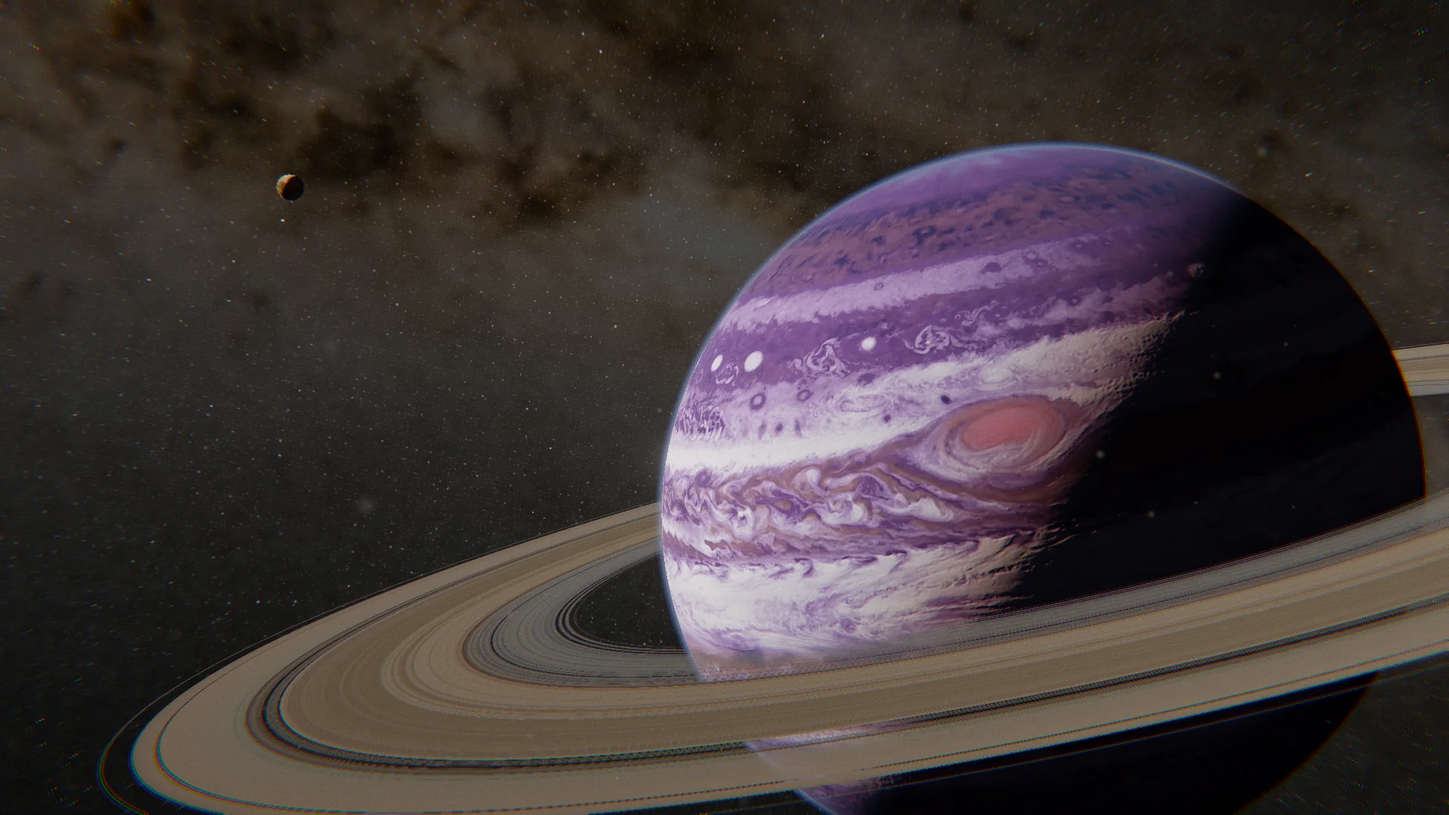
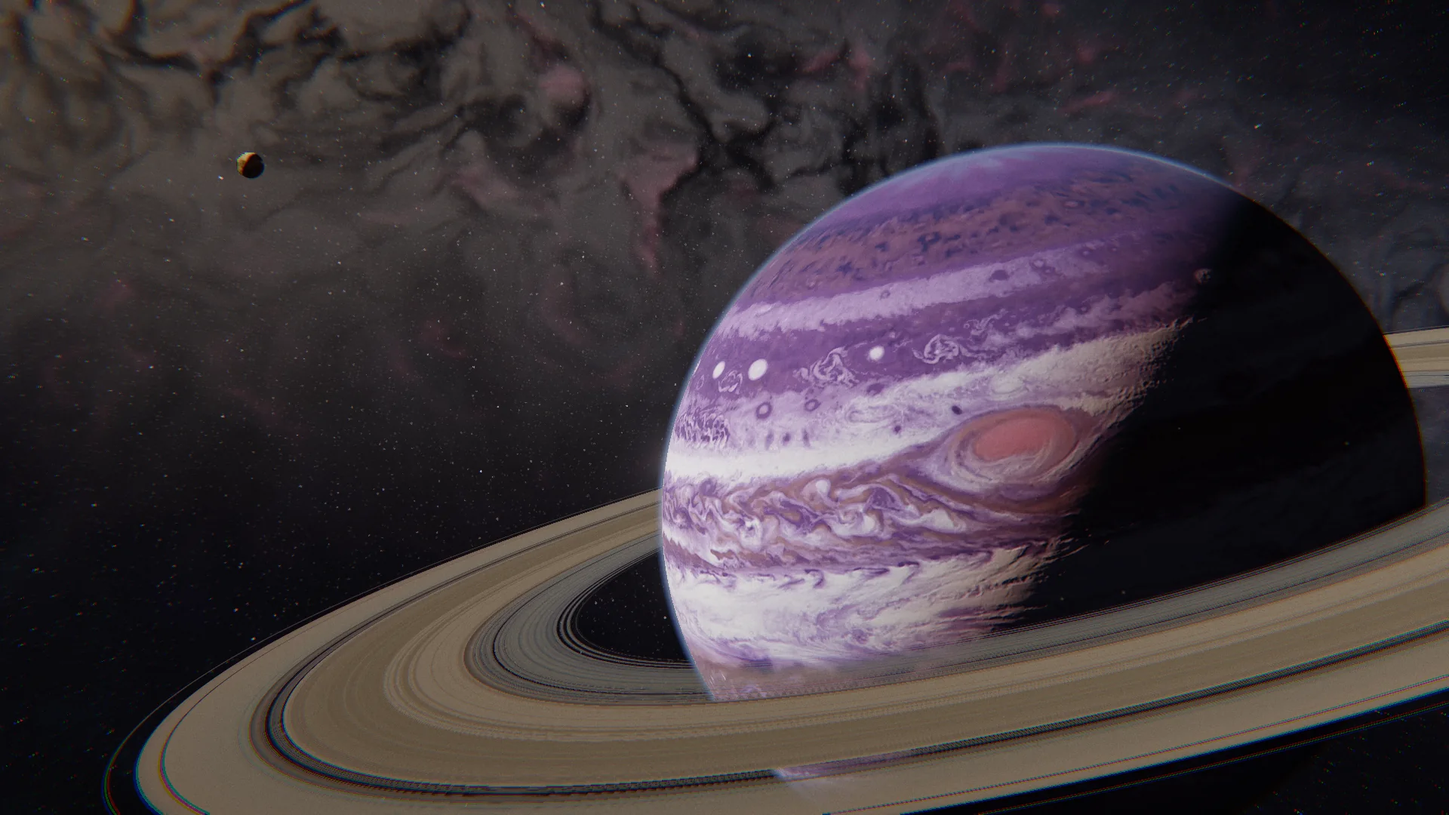
The site draws its own Milky Way: Gaia's picture and credit go
Owner decision 2026-10-09 (#6): the site no longer uses the Gaia picture
(NASA Deep Star Maps 2020 with ESA Gaia DR2, CC BY-NC 3.0 IGO) and
carries no credit for it.

What changed:
- The install world draws its own Milky Way from the start. world.js no
  longer fetches, loads or looks for a galaxy picture, and the "is drawn,
  not Gaia's" warning and the picture-only shader branch are gone. The
  drawn sky looks exactly as it did when the picture was missing.
- The flight (voyage.js) no longer loads the sky picture or reads it in
  its shader. The dead galK look settings are removed.
- Deleted galaxy.webp, galaxy-2k.webp and tools/galaxy.py.
- Credits: the door footer and the install credit lose ESA/Gaia/DPAC and
  CC BY-NC 3.0 IGO; the SVS link now points to the Moon Kit page
  (svs.gsfc.nasa.gov/4720). README, LICENSE and AGENTS.md drop the Deep
  Star Maps and Gaia entries.
- Re-drew the pictures that had the Gaia sky in them, from the live page
  in headless Chromium: the install world's stills (orbit.webp 192K to
  174K, orbit-tall.webp 127K to 129K) and the docs' sky (76K to 94K).
- tools/docsky.cjs now waits for the docs' galaxy to be ready
  (warmDocs); without that it drew a black picture.

Checked: lint passes except the known unrelated ".agents must not be
committed" line (#5). The journey passes in Chromium; in Firefox it
passed on a rerun, and fails intermittently, also on the commit before
this one, when the mermaid script cannot be fetched from its CDN.
[…]

diff --git a/assets/js/world.js b/assets/js/world.js
@@ -7,8 +7,7 @@
  * planet's map (assets/img/install/planet*.webp). Here it is flattened by its
  * spin, darkens towards the limb through a thin haze, and wears rings of
  * hundreds of ringlets that shade it and are shaded by it; a gold moon beyond,
- * and the galaxy behind (a photograph; painted on the GPU only if it cannot be
- * had). The frame is drawn in light (HDR), bloomed, and tone-mapped like film.
+ * and the galaxy behind (drawn here, on the GPU, once). The frame is drawn in light (HDR), bloomed, and tone-mapped like film.
  *
  * createWorld(canvas, opts) → null when WebGL2 is not there; otherwise
  *   { gl, made, compileMs, bake(), baked, draw(view), finish(), resize(w, h, scale), lookOf(opts), lose() }
@@ -97,7 +96,7 @@ uniform vec3 uCam, uFwd, uRight, uUp, uSun;
 uniform mat3 uSpin, uTilt, uSkyM;
 uniform vec4 uMoon, uMoon2;
 uniform sampler2D uAlb, uSky, uRing, uMoonT;
-uniform float uHasMoon, uGalaxy, uGalK, uDust, uFocusD;
+uniform float uHasMoon, uDust, uFocusD;
 uniform int uDustN;
 uniform float uPartK;   /* the scene's resolution over the canvas's: a point of light keeps its light however coarse the drawing */
 uniform vec3 uVel;
@@ -155,9 +154,8 @@ vec3 sky(vec3 rd){
   vec2 uv2=vec2(fract(uv.x+0.5),uv.y), dx=dFdx(uv), dy=dFdy(uv), dx2=dFdx(uv2), dy2=dFdy(uv2);
   if(abs(dx2.x)<abs(dx.x))dx.x=dx2.x; if(abs(dy2.x)<abs(dy.x))dy.x=dy2.x;
   vec4 s=textureGrad(uSky,uv,dx,dy);
-  /* Gaia's Milky Way, its stars denser where the band is; or the drawn galaxy if it could not be had */
-  float dens=uGalaxy>0.5?clamp(dot(s.rgb,vec3(0.3,0.5,0.2))*2.5+0.12,0.0,1.0):s.a;
-  vec3 c=s.rgb*(uGalaxy>0.5?uGalK:0.5)+stars(d,dens)*0.09;
+  /* the drawn Milky Way, its stars denser where the band is */
+  vec3 c=s.rgb*0.5+stars(d,s.a)*0.09;
   float a=acos(clamp(dot(rd,uSun),-1.0,1.0));
   c+=vec3(1.0,0.97,0.9)*4000.0*smoothstep(0.0052,0.0046,a);
   return c;
@@ -489,7 +487,7 @@ function ringProfile(n) {
   return px;
 }
 
-/* a world's pictures: the planet's map, its rings, the moon, the galaxy (smaller on a small screen) */
+/* a world's pictures: the planet's map, its rings, the moon (the map smaller on a small screen) */
 function picturesOf(opts) {
   const small = opts.small ?? (matchMedia("(pointer: coarse)").matches || Math.min(screen.width, screen.height) < 800);
   return {
@@ -497,15 +495,12 @@ function picturesOf(opts) {
     MAP: opts.map ?? new URL(small ? "../img/install/planet-2k.webp" : "../img/install/planet.webp", import.meta.url).href,
     RINGS: opts.rings ?? new URL("../img/install/rings.png", import.meta.url).href,
     MOON: opts.moon ?? new URL("../img/install/moon.webp", import.meta.url).href,
-    /* the galaxy behind is soft and dim: at 2k it cannot be told from 4k even on a dense screen (compared side by
-       side), and the flight already brings the 2k one, so it comes once, for everything */
-    GALAXY: opts.galaxy ?? new URL("../img/install/galaxy-2k.webp", import.meta.url).href,
   };
 }
 /** start a world's pictures down the wire, before the world itself is made (that is a chore; the network is not) */
 export function fetchWorld(opts = {}) {
   const p = picturesOf(opts);
-  for (const url of [p.MAP, p.RINGS, p.MOON, p.GALAXY]) fetchOnce(url).catch(() => {});
+  for (const url of [p.MAP, p.RINGS, p.MOON]) fetchOnce(url).catch(() => {});
 }
 
 export function createWorld(canvas, opts = {}) {
@@ -513,7 +508,7 @@ export function createWorld(canvas, opts = {}) {
   if (!gl) return null;
   const floatOK = !!gl.getExtension("EXT_color_buffer_float");
   const aniso = gl.getExtension("EXT_texture_filter_anisotropic");
-  const { small, MAP, RINGS, MOON, GALAXY } = picturesOf(opts);
+  const { small, MAP, RINGS, MOON } = picturesOf(opts);
   const KW = opts.sky ?? (small ? 2048 : 4096), KH = KW / 2;
   /* a world's look: the map's hue turned by o.hue degrees (about the grey axis, in linear light), a little richer by
      o.sat; rings unless o.ringsOn is false; the haze tinted o.haze; graded by o.grade. One world can wear several
@@ -545,8 +540,7 @@ export function createWorld(canvas, opts = {}) {
   };
   /* in light where the GPU can draw in floats; straight to the screen where it cannot */
   const hdr = floatOK;
-  /* the galaxy's own painting (SKY) is only wanted if its photograph cannot be had: by far the largest shader here,
-     it is compiled then, not on every first visit (bake) */
+  /* the galaxy's own painting (SKY) is by far the largest shader here: it is compiled in bake */
   const P = {
     sky: null,
     render: program(hdr ? RENDER : RENDER.replace("precision highp float;", "precision highp float;\n#define DIRECT")),
@@ -601,7 +595,7 @@ export function createWorld(canvas, opts = {}) {
   });
   const fb = (t) => { const f = gl.createFramebuffer(); gl.bindFramebuffer(gl.FRAMEBUFFER, f); gl.framebufferTexture2D(gl.FRAMEBUFFER, gl.COLOR_ATTACHMENT0, gl.TEXTURE_2D, t, 0); return f; };
 
-  /* the textures: the planet's map (loaded), the galaxy (baked), the rings (loaded; drawn until they come) */
+  /* the textures: the planet's map (loaded), the galaxy (drawn), the rings (loaded; drawn until they come) */
   let albT = null, SW = 1, SH = 1;
   let skyT = null, skyF = null;
   /* the drawn rings, no wider than this GPU's textures can be */
@@ -635,12 +629,7 @@ export function createWorld(canvas, opts = {}) {
     .then((b) => createImageBitmap(b, { colorSpaceConversion: "none", premultiplyAlpha: "none" }))
     .then((img) => banded(img, "moon").then((t) => { moonT = t; }),
       (e) => console.warn("orbit: the moon is drawn, not photographed", e));
-  let galT = null;
-  const loadGalaxy = fetchOnce(GALAXY)
-    .then((b) => createImageBitmap(b, { colorSpaceConversion: "none", premultiplyAlpha: "none" }))
-    .then((img) => banded(img, "galaxy").then((t) => { galT = t; }),
-      (e) => console.warn("orbit: the galaxy is drawn, not Gaia's", e));
-  /* without the photograph: the galaxy painted, a strip a frame */
+  /* the galaxy painted, a strip a frame */
   const jobs = [];
   const STRIPS = 4;
   function paintSky() {
@@ -660,8 +649,8 @@ export function createWorld(canvas, opts = {}) {
   /* ready when the map is in and the galaxy is baked; resolves false if the map cannot be had */
   function bake() {
     if (!baking) baking = new Promise((res) => {
-      const step = () => { if (galT) skyDone = true; else { if (!P.sky) paintSky(); if (!skyDone) bakeSome(1); } if (!skyDone) requestAnimationFrame(step); else Promise.all([loadMap, loadRings, loadMoon]).then(() => { baked = true; res(true); }, (e) => { console.warn("orbit: no map", e); res(false); }); };
-      Promise.all([made, loadGalaxy]).then(([ok]) => (ok ? requestAnimationFrame(step) : res(false)));
+      const step = () => { if (!P.sky) paintSky(); if (!skyDone) bakeSome(1); if (!skyDone) requestAnimationFrame(step); else Promise.all([loadMap, loadRings, loadMoon]).then(() => { baked = true; res(true); }, (e) => { console.warn("orbit: no map", e); res(false); }); };
+      made.then((ok) => (ok ? requestAnimationFrame(step) : res(false)));
     });
     return baking;
   }
@@ -710,9 +699,9 @@ export function createWorld(canvas, opts = {}) {
       gl.uniform3fv(u.uCam, v.cam); gl.uniform3fv(u.uFwd, v.fwd); gl.uniform3fv(u.uRight, v.right); gl.uniform3fv(u.uUp, v.up); gl.uniform3fv(u.uSun, v.sun);
       gl.uniformMatrix3fv(u.uSpin, false, m3(v.spin)); gl.uniformMatrix3fv(u.uTilt, false, m3(v.tilt)); gl.uniformMatrix3fv(u.uSkyM, false, m3(v.sky));
       gl.uniform4fv(u.uMoon, v.moon); gl.uniform4fv(u.uMoon2, v.moon2 || [0, 0, 0, 0]);
-      gl.uniform3fv(u.uVel, v.vel || [0, 0, 0]); gl.uniform1f(u.uDust, v.dust ?? 1); gl.uniform1f(u.uFocusD, v.focusD || 5); gl.uniform1f(u.uGalaxy, galT ? 1 : 0); gl.uniform1f(u.uGalK, v.galK ?? 0.35); gl.uniform2f(u.uAlbSize, SW, SH); gl.uniformMatrix3fv(u.uHue, false, L.HUE); gl.uniform1f(u.uRingK, L.RING_K); gl.uniform3fv(u.uHazeT, L.HAZE);
+      gl.uniform3fv(u.uVel, v.vel || [0, 0, 0]); gl.uniform1f(u.uDust, v.dust ?? 1); gl.uniform1f(u.uFocusD, v.focusD || 5); gl.uniform2f(u.uAlbSize, SW, SH); gl.uniformMatrix3fv(u.uHue, false, L.HUE); gl.uniform1f(u.uRingK, L.RING_K); gl.uniform3fv(u.uHazeT, L.HAZE);
       const G = L.GRADE; gl.uniform1f(u.uGradeK, G ? G[3] : 0); if (G) { gl.uniform3fv(u.uG0, G[0]); gl.uniform3fv(u.uG1, G[1]); gl.uniform3fv(u.uG2, G[2]); }
-      bind(0, albT, u.uAlb); bind(1, galT || skyT || ringT, u.uSky); bind(2, ringT, u.uRing); bind(3, moonT || ringT, u.uMoonT); gl.uniform1f(u.uHasMoon, moonT ? 1 : 0);
+      bind(0, albT, u.uAlb); bind(1, skyT || ringT, u.uSky); bind(2, ringT, u.uRing); bind(3, moonT || ringT, u.uMoonT); gl.uniform1f(u.uHasMoon, moonT ? 1 : 0);
     });
     if (!hdr) return;
     /* the bloom's steps and the film, one program (POST: uMode); a step's other maps read the one it reads, so none of

diff --git a/assets/js/voyage.js b/assets/js/voyage.js
@@ -7,7 +7,7 @@
  * whatever circle the flight gives the world each frame, so it moves exactly
  * as the flight's world does while its shading stays true: the cities on the
  * night side, the air lit along the limb, the sunlit crescent opening as the
- * camera climbs. Behind it, the Milky Way as Gaia saw it and the fine stars
+ * camera climbs. Behind it, the fine stars
  * (on the docs' flight, a galaxy in three dimensions is where it goes: seen
  * from outside, dived into, and rested in, its band across the sky as the
  * docs page shows it, the constellations lighting on it);
@@ -16,8 +16,7 @@
  * the door's own tone curve, grain.
  *
  * Imagery: NASA's Black Marble (city lights) and Blue Marble (land, clouds),
- * NASA Earth Observatory; the Milky Way: NASA/Goddard SVS, Gaia DR2:
- * ESA/Gaia/DPAC. Reduced to small maps for here (assets/img/flight).
+ * NASA Earth Observatory. Reduced to small maps for here (assets/img/flight).
  */
 
 import { chore, fetchOnce, note, linked, counted, COMPILES_ASIDE } from "./chores.js";
@@ -27,7 +26,7 @@ import { theDoorWeight, liveDoor } from "./capability.js";
 const IMG = (p) => new URL(`../img/${p}`, import.meta.url).href;
 export const TEX = {
   lights: IMG("flight/earth-lights.webp"), day: IMG("flight/earth-day.webp"), clouds: IMG("flight/earth-clouds.webp"),
-  euro: IMG("flight/europe-lights.webp"), sky: IMG("install/galaxy-2k.webp"), moon: IMG("install/moon.webp"),
+  euro: IMG("flight/europe-lights.webp"), moon: IMG("install/moon.webp"),
   /* finer, about where the door looks (NEAR) */
   lightsN: IMG("door/lights-near.webp"), cloudsN: IMG("door/clouds-near.webp"), dayN: IMG("door/land-near.webp"),
 };
@@ -179,8 +178,8 @@ export function cityGlow(gl, prog, lights, w, h, lightsN, blank) {
 }
 
 /* the scene's uniforms, each with the part of the scene that reads it (a door-only Earth declares only its own; the
-   flight declares them all, in the order they always came in, so its source is what it was). uSky and uEarthA ride on
-   the Earth's lines, as they always did: declared, and unread by the door, they cost it nothing */
+   flight declares them all, in the order they always came in, so its source is what it was). uEarthA rides on
+   the Earth's lines, as it always did: declared, and unread by the door, it costs it nothing */
 const UNIFORMS = [
   ["common", `uniform vec2 uRes; uniform float uPx, uTime;
 /* which of the RICH programs' passes is drawn in place of the scene (0: none; PARTS.passes) */
@@ -189,7 +188,7 @@ uniform int uPass;`],
   ["earth", `uniform vec3 uCirc; uniform float uEarthA, uD; uniform mat3 uB; uniform vec3 uSun; uniform vec4 uHas;
 /* the ground turned under the camera, and the clouds drifting over it (the live door, door3d.js; still in a flight) */
 uniform mat3 uSpinM; uniform float uCloudOff, uAirK;
-uniform sampler2D uLights, uDay, uClouds, uEuro, uSky; uniform vec4 uEuroBox;
+uniform sampler2D uLights, uDay, uClouds, uEuro; uniform vec4 uEuroBox;
 /* the finer maps about where the door looks (lights, clouds, land: which are there, uHasN), the box they cover; the
    cloud slab's strength (0: none) */
 uniform sampler2D uLightsN, uCloudsN, uDayN; uniform vec4 uNearBox, uHasN; uniform float uCloudK;
@@ -252,10 +251,8 @@ vec3 sky(vec2 css){
   float f=uRes.y/uPx*0.95;
   vec3 d=normalize(vec3((css.x-uRes.x/uPx*0.5)/f,(uRes.y/uPx*0.5-css.y)/f,1.0));
   vec3 s=uSkyM*d;
-  vec2 uv=vec2(atan(s.x,s.z)/TAU+0.5,0.5-asin(clamp(s.y,-1.0,1.0))/PI);
   /* the night itself: black, with only the faintest warmth of the galaxy's own light */
   vec3 c=vec3(0.0011,0.0010,0.0010);
-  if(uHas.w>0.5) c+=pow(texture(uSky,uv).rgb,vec3(2.2))*0.055;
   c+=stars(s,f*uPx)*0.16*uStarA;
   return c;
 }
@@ -1195,7 +1192,7 @@ export function createVoyage(under) {
       const loadStrip = () => load("lightsS").then(() => {
         if (maps.lightsS) stripS.ready((bm) => { maps.lightsS2 = upload("lightsS", bm); }); else stripS.fail();
       });
-      loaded = Promise.all([...["sky", "lights", "euro", "clouds", "day", "moon", "lightsN", "cloudsN", "dayN"].map(load), ...(live ? [loadStrip()] : [])])
+      loaded = Promise.all([...["lights", "euro", "clouds", "day", "moon", "lightsN", "cloudsN", "dayN"].map(load), ...(live ? [loadStrip()] : [])])
         .then(() => { allIn = true; });
       warming = Promise.all([made, loaded])
         /* rich from the first: its fields and its glow, before anything is drawn with it */
@@ -1341,7 +1338,7 @@ export function createVoyage(under) {
       gl.uniformMatrix3fv(u.uSpinM, false, new Float32Array(door?.spinM || ID3)); gl.uniform1f(u.uCloudOff, door?.cloudOff || 0);
       /* the door's air at the door (its glows carry the rest), the flight's own as the world falls away */
       { const k = door ? Math.min(1, Math.max(0, (w ? w.c : 1) / 0.35)) : 1; gl.uniform1f(u.uAirK, door ? door.air + (1 - door.air) * k * k * (3 - 2 * k) : 1); }
-      gl.uniform4f(u.uHas, maps.lights ? 1 : 0, maps.euro ? 1 : 0, maps.clouds && maps.day ? 1 : 0, maps.sky ? 1 : 0);
+      gl.uniform4f(u.uHas, maps.lights ? 1 : 0, maps.euro ? 1 : 0, maps.clouds && maps.day ? 1 : 0, 0);
       gl.uniform4f(u.uEuroBox, ...EURO); gl.uniform4f(u.uNearBox, ...NEAR);
       gl.uniform4f(u.uHasN, maps.lightsN ? 1 : 0, maps.cloudsN ? 1 : 0, maps.dayN ? 1 : 0, 0);
       gl.uniform1f(u.uCloudK, maps.clouds ? 1 : 0);
@@ -1371,7 +1368,7 @@ export function createVoyage(under) {
       gl.uniform1f(u.uPre, s.bloom != null && s.star !== false ? sm(2500, 3300, tu) : 0);
       gl.uniform1f(u.uBloom, s.bloom || 0); gl.uniform2f(u.uBloomPt, s.bloomPt?.[0] ?? W / 2, s.bloomPt?.[1] ?? H / 2);
       bind(0, maps.lights || blank, u.uLights); bind(1, maps.day || blank, u.uDay); bind(2, maps.clouds || blank, u.uClouds);
-      bind(3, maps.euro || blank, u.uEuro); bind(4, maps.sky || blank, u.uSky);
+      bind(3, maps.euro || blank, u.uEuro);
       bind(10, sunTex || (sunTex = sunTexture(gl)), u.uSunT);
       bind(7, maps.lightsN || blank, u.uLightsN); bind(8, maps.cloudsN || blank, u.uCloudsN); bind(9, maps.dayN || blank, u.uDayN);
       bind(11, (live && maps.lightsS) || blank, u.uLightsS); bind(15, maps.lightsS2 || blank, u.uLightsS2);

diff --git a/index.html b/index.html
@@ -107,7 +107,7 @@
         <div class="gate-wrap"><button class="gate" id="gate" type="button">Get into Orbit</button><p class="notice"><span class="t">Back shortly</span><span class="d" aria-hidden="true"><i>.</i><i>.</i><i>.</i></span></p></div>
       </div>
     </div>
-    <p class="doorfoot by">A <a href="https://tomlawson.io">tomlawson.io</a> project · Earth: <a href="https://earthobservatory.nasa.gov/features/NightLights" title="Black Marble city lights, Blue Marble land and clouds: NASA Earth Observatory" target="_blank" rel="noopener">NASA</a> · Milky Way: <a href="https://svs.gsfc.nasa.gov/4851/" title="Deep Star Maps 2020: NASA/Goddard Space Flight Center Scientific Visualization Studio" target="_blank" rel="noopener">NASA</a>, <a href="https://www.cosmos.esa.int/web/gaia-users/license" title="Gaia DR2 star data, regraded for this site" target="_blank" rel="noopener">ESA/Gaia/DPAC</a>, <a href="https://creativecommons.org/licenses/by-nc/3.0/igo/" target="_blank" rel="noopener">CC BY-NC 3.0 IGO</a></p>
+    <p class="doorfoot by">A <a href="https://tomlawson.io">tomlawson.io</a> project · Earth: <a href="https://earthobservatory.nasa.gov/features/NightLights" title="Black Marble city lights, Blue Marble land and clouds: NASA Earth Observatory" target="_blank" rel="noopener">NASA</a></p>
   </div>
 
   <!-- ═══ THE SKY: home ══════════════════════════════════════════════ -->
@@ -342,7 +342,7 @@
       <p class="theline"><code data-copy="curl -fsSL https://raw.githubusercontent.com/tomlawesome/orbit/main/scripts/get-orbit.sh | bash" title="Copy"><span class="prompt">$</span>curl -fsSL https://raw.githubusercontent.com/tomlawesome/orbit/main/scripts/get-orbit.sh | bash</code><button class="copy" type="button" data-copy="curl -fsSL https://raw.githubusercontent.com/tomlawesome/orbit/main/scripts/get-orbit.sh | bash" aria-label="Copy the install command">copy</button></p>
       <p class="made">Designed by a human, written by Claude.</p>
     </div>
-    <p class="credit"><a href="https://photojournal.jpl.nasa.gov/catalog/PIA07782" title="Jupiter and Saturn's rings from Cassini: NASA/JPL/Space Science Institute" target="_blank" rel="noopener">NASA</a> · <a href="https://svs.gsfc.nasa.gov/4851/" title="The Moon and the Milky Way: NASA's Scientific Visualization Studio" target="_blank" rel="noopener">SVS</a> · <a href="https://www.cosmos.esa.int/web/gaia-users/license" title="Gaia DR2 star data, regraded for this site" target="_blank" rel="noopener">ESA/Gaia/DPAC</a> · <a href="https://creativecommons.org/licenses/by-nc/3.0/igo/" target="_blank" rel="noopener">CC BY-NC 3.0 IGO</a></p>
+    <p class="credit"><a href="https://photojournal.jpl.nasa.gov/catalog/PIA07782" title="Jupiter and Saturn's rings from Cassini: NASA/JPL/Space Science Institute" target="_blank" rel="noopener">NASA</a> · <a href="https://svs.gsfc.nasa.gov/4720/" title="The Moon: NASA's Scientific Visualization Studio, CGI Moon Kit" target="_blank" rel="noopener">SVS</a></p>
     <p class="doorfoot by">A <a href="https://tomlawson.io">tomlawson.io</a> project</p>
   </div>
   <div class="pad docs" id="docspad" hidden>

diff --git a/assets/js/install.js b/assets/js/install.js
@@ -59,8 +59,8 @@ export const TUNE = {
   sun: [-0.95, 0.28, -0.08], tiltZ: 0.38, tiltX: -0.12,
   /* the Milky Way: where its core sits on the screen at rest, and a point its band runs through (fractions from the top left) */
   sky: { core: [-0.35, -0.25], along: [0.6, 0.25] },
-  /* the film: how bright the Milky Way is, how much dust, the lens's colour fringing, the grain */
-  look: { galK: 0.05, dust: 1, fringe: 0.012, grain: 0.028 },
+  /* the film: how much dust, the lens's colour fringing, the grain */
+  look: { dust: 1, fringe: 0.012, grain: 0.028 },
   rest: { az: 0.0, el: 0.3, roll: 0.18, d: 5.2 }, from: { az: -0.8, el: -0.23, roll: 0.3 },
   /* the moon the camera passes on the way in: when (k), how far off the path (planet radii, right and up), how big */
   fly: { k: 0.89, side: [-1.2, -0.8], r: 0.2 },
@@ -279,7 +279,7 @@ export function createInstall(pad, opts = {}) {
       look, sun: sunNow, spin: tr(spin), tilt: tr(TO_TILT), sky: tr(SKY), moon: moonPos, moon2: k < 0.999 ? flyPos : [0, 0, 0, 0],
       part: force?.part ?? partAt(), dustN: force?.dustN ?? (motion ? 18 : 30),
       time: now / 1000, bg: smooth(0.02, 0.26, k), sunVis, expo: lerp(0.72, 1.0, smooth(0.35, 0.95, k)) * flare(),
-      vel, focusD: v.dist, blur, galK: TUNE.look.galK, dust: TUNE.look.dust, fringe: TUNE.look.fringe, grain: TUNE.look.grain, blurC: [at((W / 2 + v.shift[0]) * s, 0), at((H / 2 + v.shift[1]) * s, 1)],
+      vel, focusD: v.dist, blur, dust: TUNE.look.dust, fringe: TUNE.look.fringe, grain: TUNE.look.grain, blurC: [at((W / 2 + v.shift[0]) * s, 0), at((H / 2 + v.shift[1]) * s, 1)],
     });
   }
   /* going in, the world starts as bright as the door's planet is as it flares, and settles as the camera moves:

diff --git a/assets/js/upload.js b/assets/js/upload.js
@@ -20,7 +20,7 @@ const CUT = { colorSpaceConversion: "none", premultiplyAlpha: "none" };
 const SAY = (() => { try { return /[?&]door3d\b/.test(location.search); } catch { return false; } })();
 
 /* Firefox takes the picture whole (the ?holdreveal path). Put in bands there, the install world's planet map and the
-   Gaia sky drew right for a moment and then as stripes and nothing, on the owner's desktop (2026-10-09, #4); whole,
+   sky drew right for a moment and then as stripes and nothing, on the owner's desktop (2026-10-09, #4); whole,
    on the same browser, they drew right and stayed. The band path's failure there is not understood and could not be
    reproduced on the build host (no WebGL in its Firefox), so the engine that showed it is kept off it. */
 const WHOLE = HOLD_REVEAL || (() => { try { return /\bFirefox\//.test(navigator.userAgent); } catch { return false; } })();

diff --git a/assets/js/main.js b/assets/js/main.js
@@ -168,7 +168,7 @@ const INFO_WORLD = {
     sun: [0.12, 0.82, 0.42], tiltZ: -0.22, tiltX: 0.1,
     sky: { core: [0.32, -0.3], along: [-0.55, 0.15] },
     /* the lens fringes less: its moon sits up in the corner, where the fringe is widest */
-    look: { galK: 0.03, fringe: 0.004 },
+    look: { fringe: 0.004 },
     /* it dives straight at the planet, and only late lets it settle beneath, a crescent under the title */
     aim: [0.42, 0.58],
     /* it comes in from above, on the sun's side, so the planet it dives at is lit, and drops to rest beneath the crescent */

diff --git a/README.md b/README.md
@@ -34,12 +34,11 @@ Remove the attribute and the whole site is back as it was.
 | `assets/js/flight.js` | The dawn's and the dusk's glows, drawn once; the journey between the surfaces |
 | `assets/js/pads.js` | The sections — the docs' chart of the sky, its search and its reader, the information page — and the planets on the sunrise |
 | `assets/js/install.js` | The dives into a world: the camera goes from a planet on the door to the world it is, and settles in orbit over it. Two worlds use it: the install's (the purple ringed planet; the one line waits in the dark above) and the information's (`main.js`, `INFO_WORLD`: a coral planet, no rings, lit from above, resting as a crescent under the title, dimmed as its scenes are read). Each world has its own tuning, look and framing |
-| `assets/js/world.js` | The world, drawn in WebGL2: a ray-traced gas giant, flattened by its spin, under a thin haze, with rings that shade it and are shaded by it, a gold moon, and the galaxy (baked on the GPU); drawn in light, bloomed and tone-mapped |
+| `assets/js/world.js` | The world, drawn in WebGL2: a ray-traced gas giant, flattened by its spin, under a thin haze, with rings that shade it and are shaded by it, a gold moon, and a Milky Way it draws itself (baked on the GPU, no picture); drawn in light, bloomed and tone-mapped |
 | `assets/img/install/planet*.webp` | The gas giant's cloud deck: Cassini's map of Jupiter (PIA07782, NASA/JPL/Space Science Institute), regraded to violet by `tools/gas-giant.py --base` (`pip install numpy scipy pillow`) |
 | `assets/img/install/orbit*.webp` | The world, still: shown while it loads, and in its place where WebGL2 is not |
 | `assets/img/install/rings.png` | The rings: Cassini's natural-colour mosaic across Saturn's rings (PIA08389, NASA/JPL/Space Science Institute) read as a radial profile by `tools/rings.py` |
 | `assets/img/install/moon.webp` | The gold moon: NASA's CGI Moon Kit (LRO colour and LOLA elevation; NASA's Scientific Visualization Studio) graded to gold by `tools/moon.py` |
-| `assets/img/install/galaxy*.webp` | The Milky Way: NASA's Deep Star Maps 2020 (NASA/Goddard SVS; Gaia DR2: ESA/Gaia/DPAC, [CC BY-NC 3.0 IGO](https://creativecommons.org/licenses/by-nc/3.0/igo/), so never used commercially without ESA's permission), brought down from HDR by `tools/galaxy.py`; credited on the door and under the install's world |
 | `tools/gas-giant.py` | Writes the cloud deck: regrades a real planet's map (`--base`), or simulates one of its own — jets along irregular bands, storms, eddies |
 | `assets/img/door/dawn*.webp` | The door's Earth: the night side from 800 km over the Atlantic, looking east over Europe as the sun comes up — the city lights from NASA's Black Marble (2016), the clouds and land from NASA's Blue Marble — before the light (`dawn-pre`) and with it (`dawn`), in the door's 1600×1000 frame, rows 640–1000 |
 | `tools/dawn.py` | Renders them: the air's scattering (molecules, haze, ozone) under a sun just below the horizon, the Earth's shadow included; the clouds as a slab standing up from the map; the cities through the air and under the clouds. Its docstring has the sources and the command |

diff --git a/AGENTS.md b/AGENTS.md
@@ -75,9 +75,7 @@ refuses both.
 
 ## Approved third-party content
 
-- NASA imagery (Black Marble, Blue Marble, Cassini, LRO, Deep Star Maps):
+- NASA imagery (Black Marble, Blue Marble, Cassini, LRO):
   public domain, credited in `README.md` and `LICENSE`.
-- ESA Gaia DR2 in the Deep Star Maps: CC BY-NC 3.0 IGO, which the
-  noncommercial `LICENSE` is consistent with; the credit line is #1.
 - `marked`, `sharp` (import tool only), `playwright` (CI only): MIT, Apache-2.0,
   Apache-2.0. None ships to a visitor.
